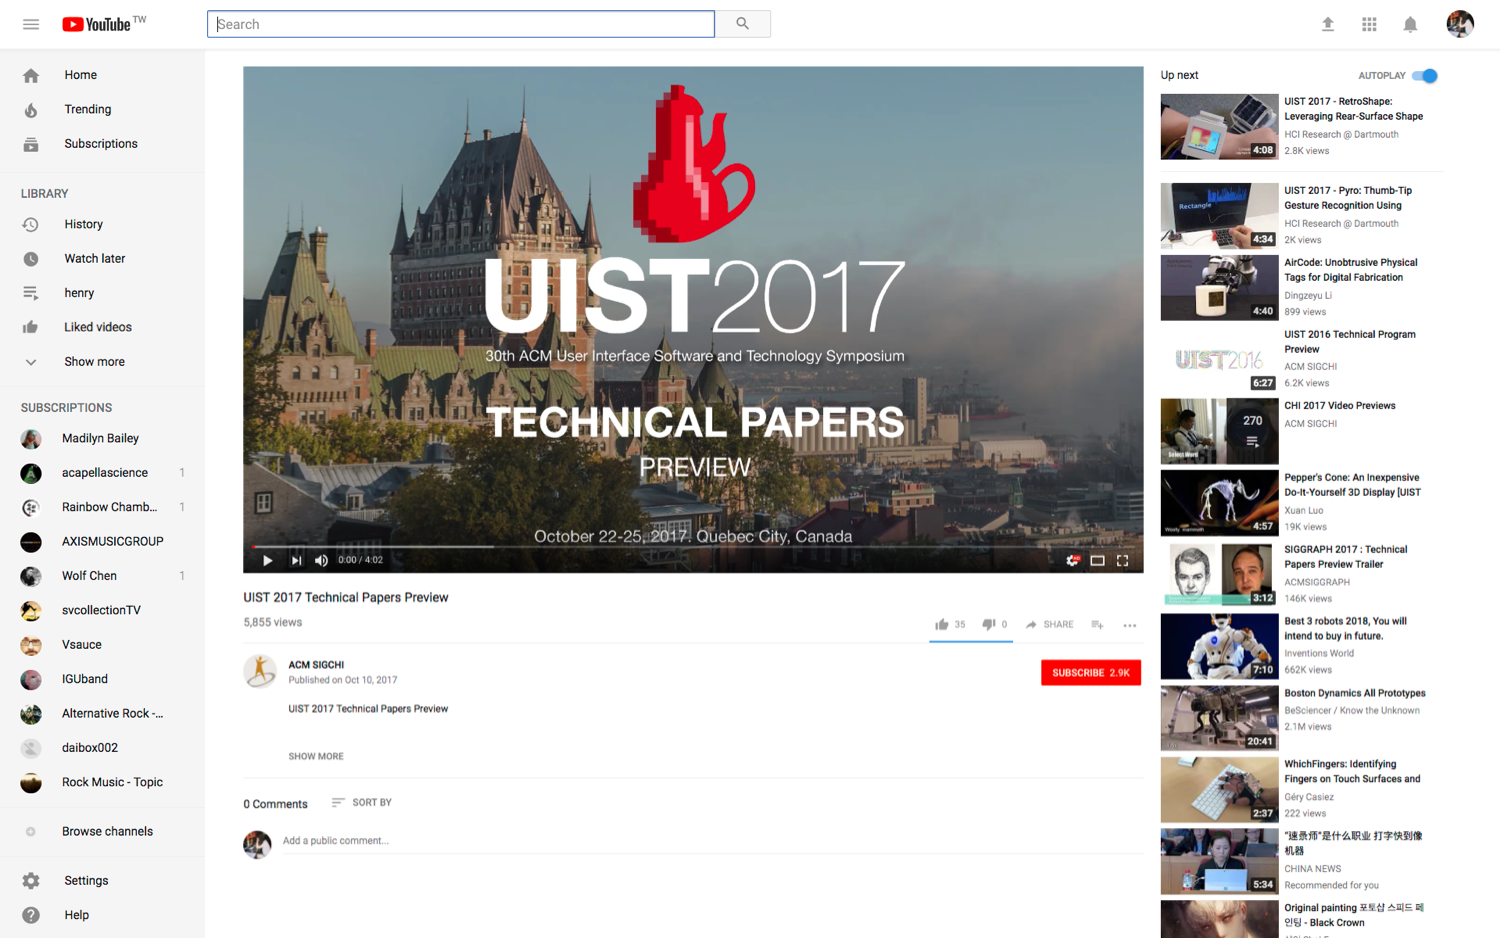
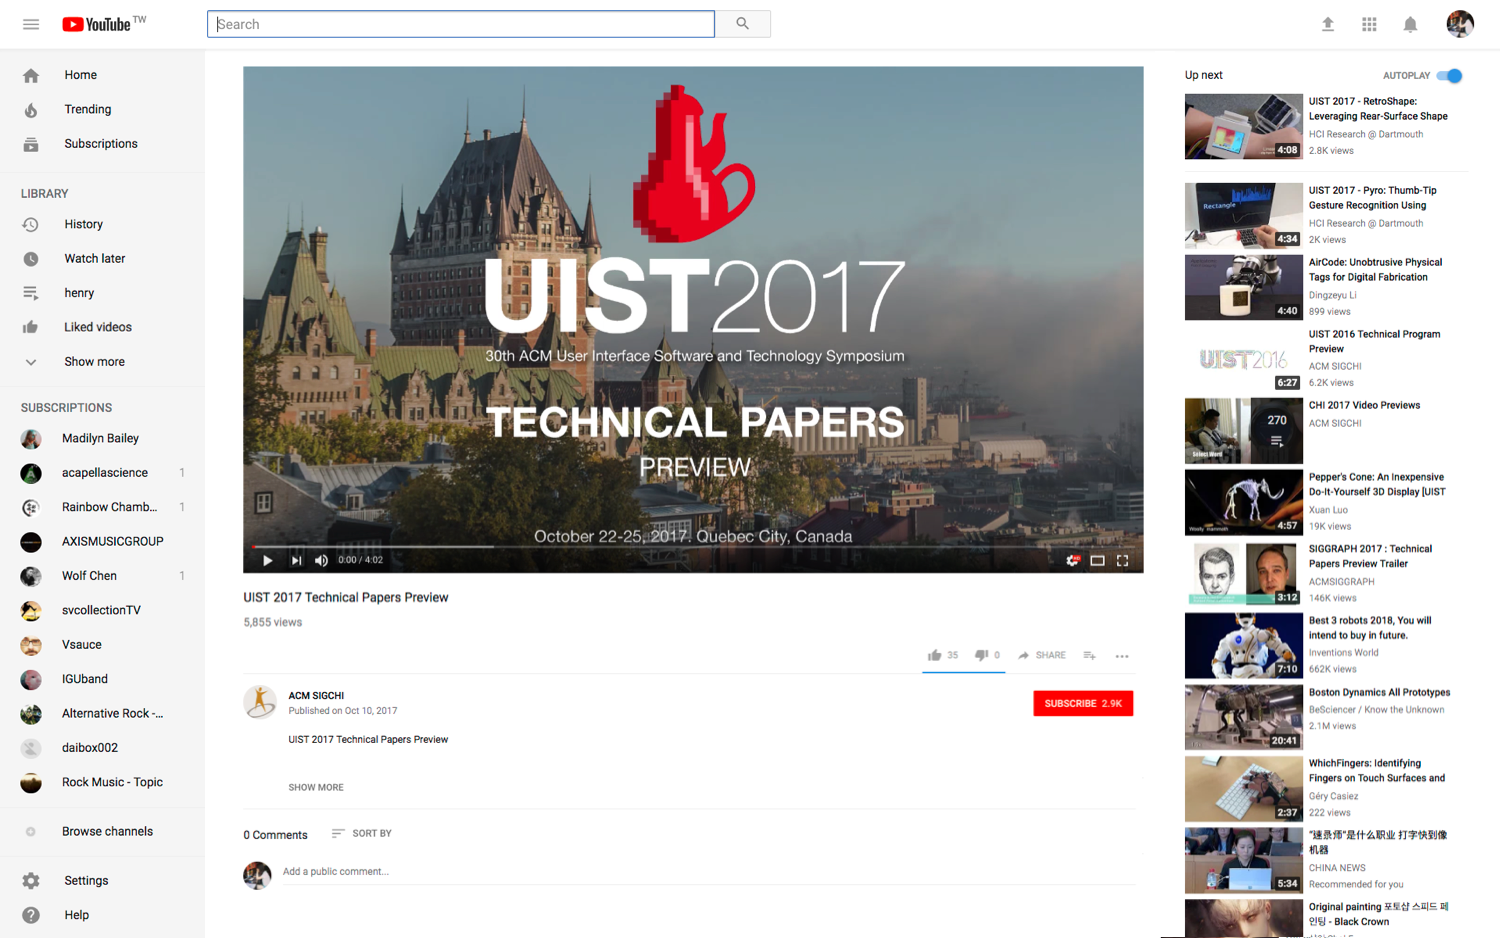
Some hack to avoid more than 4 gestures

Changed region(s): [[0.6133, 0.0618, 0.9813, 1.0], [0.1533, 0.6802, 0.3067, 0.9584]]

diff --git a/resources/youtube.css b/resources/youtube.css
@@ -62,9 +62,7 @@ body {
 button {
     height: 100%;
     width: 100%;
-    /*visibility: hidden;*/
-    opacity: 0.7;
-    background: pink;
+    visibility: hidden;
 }
 
 .target {
@@ -218,7 +216,8 @@ img {
 
 #reaction {
     height: 35px;
-    margin-top: 48px;
+    margin-top: 88px;
+    margin-right: 10px;
 }
 
 #reaction div {
@@ -256,7 +255,7 @@ img {
     margin-top: 27px;
     height: 35px;
     width: 130px;
-    margin-left: 1020px;
+    margin-left: 1010px;
 }
 
 #show-more {
@@ -278,13 +277,13 @@ img {
 }
 
 #up-next {
-    margin-left: 1486px;
+    margin-left: 1517px;
     height: 1053px;
     width: 434px;
 }
 
 #auto {
-    height: 51px;
+    height: 49px;
     padding-left: 313px;
     padding-top: 15px;
     padding-right: 73px;

diff --git a/README.md b/README.md
@@ -27,8 +27,10 @@ npm run-script dwell (config the server for dwell tasks)
 ```
 localhost:3000
 localhost:3000/gmail
+localhost:3000/youtube
 ```
-for the gmail page, the `zoom` value of the browser may need to be modified.
+for the mock-up pages, the `zoom` value of the browser may need to be modified.
+ps. size of the mock-up pages are `16:10`.
 
 ### open the touch input client
 
